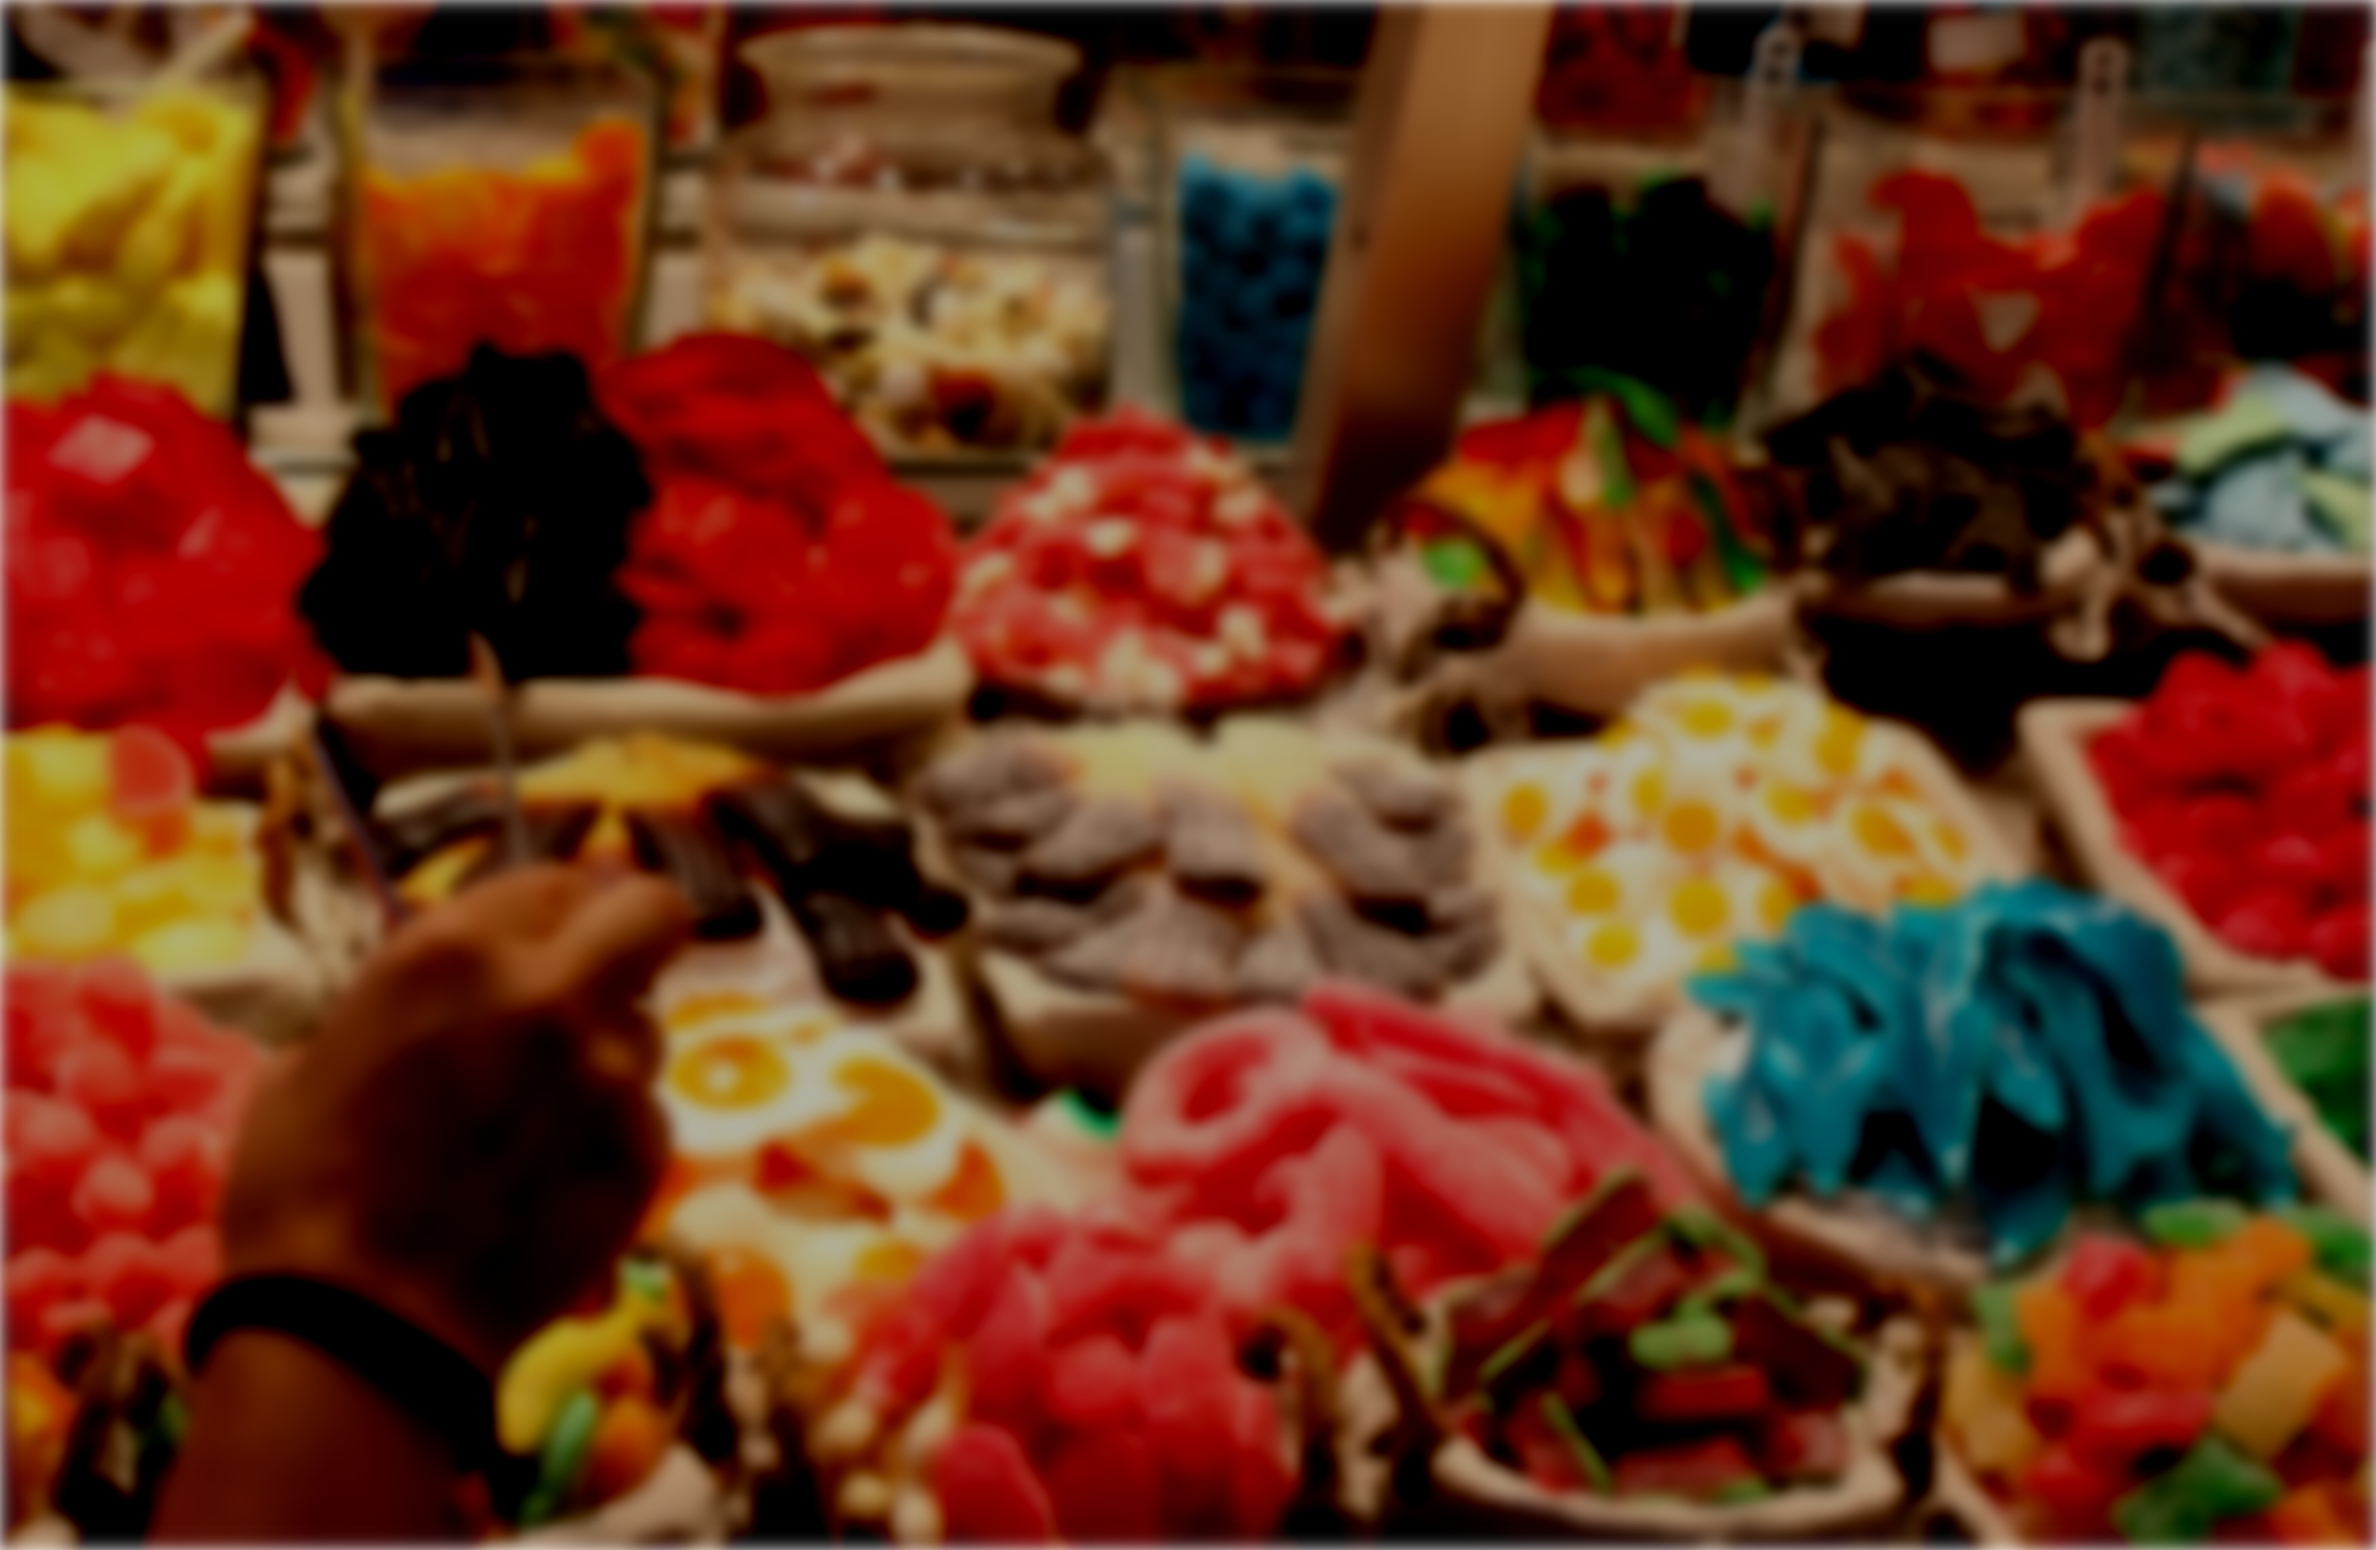
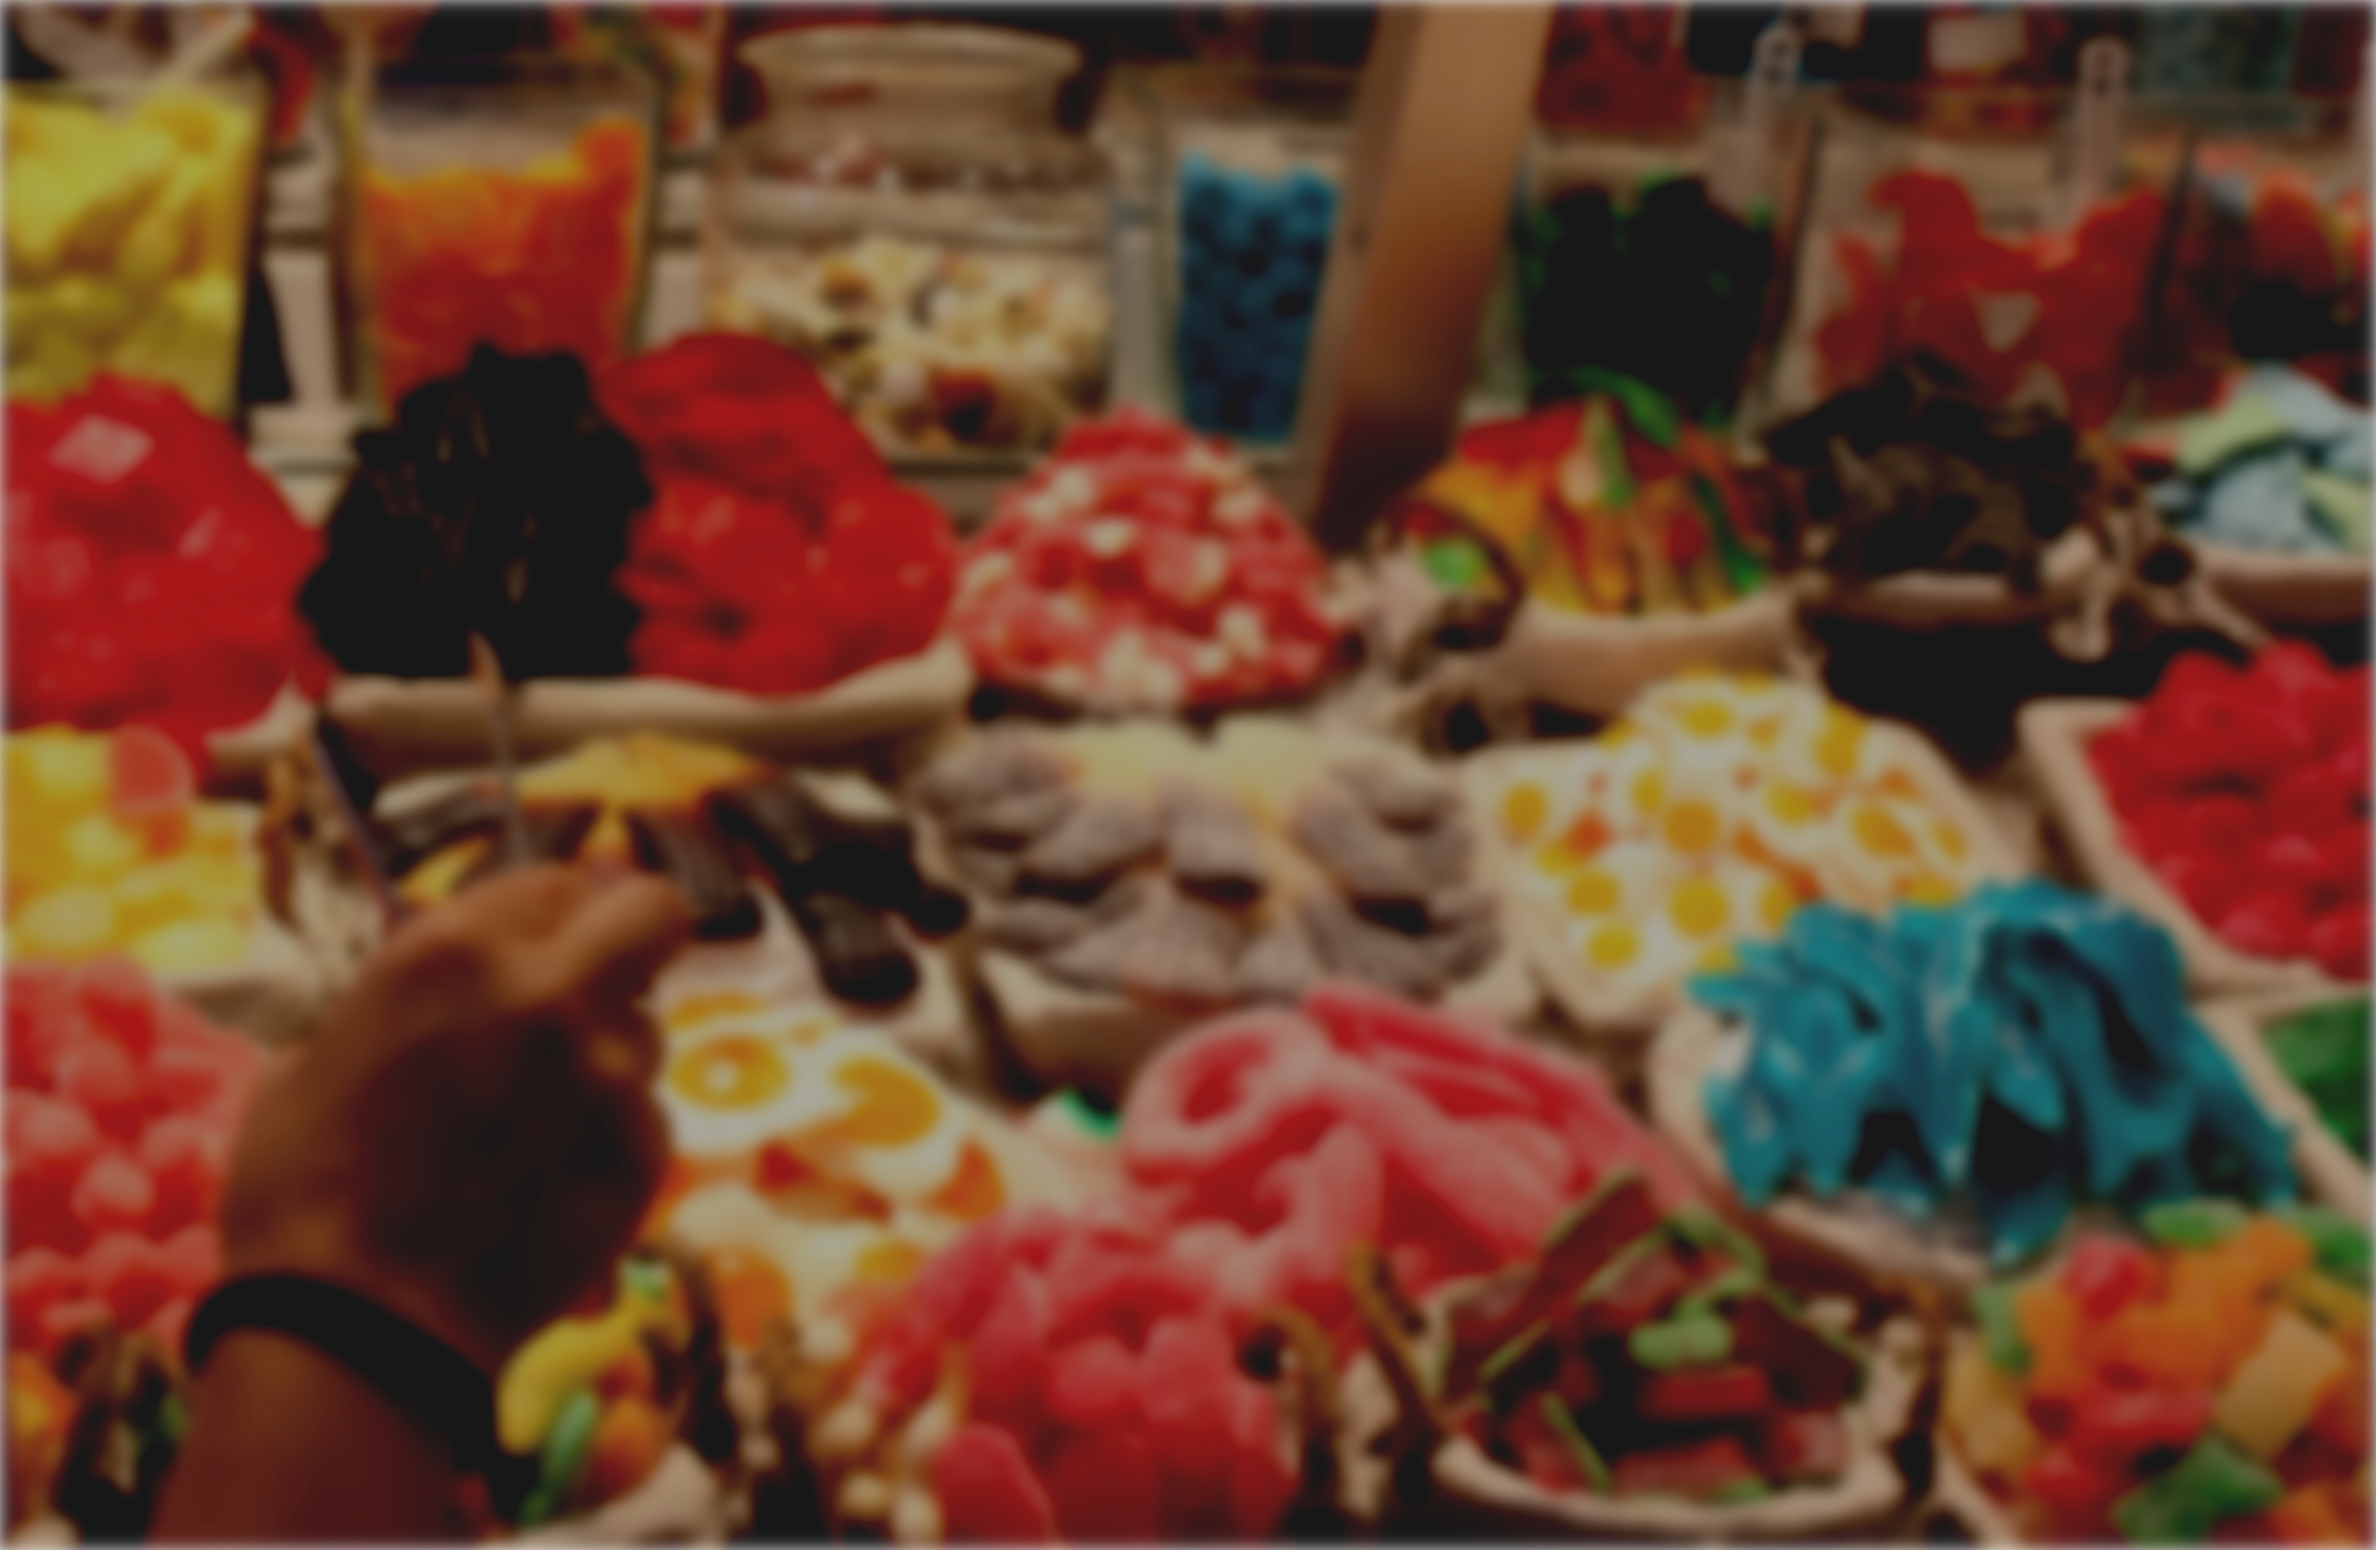
Image contrast reduced, css tweaks

diff --git a/src/immersive.less b/src/immersive.less
@@ -80,11 +80,11 @@ section#story2 {
   background-size: cover;
   .story {
     text-align: center;
-    max-width: 700px;
+    max-width: 800px;
     position: absolute;
     top: 20%;
     left: 50%;
-    margin-left: -350px;
+    margin-left: -400px;
     h2 { color: #eee; vertical-align: middle; }
     .caption { color: #eee; width: 100%; }
   }
@@ -98,11 +98,11 @@ section#story1 {
   background-size: cover;
   .story {
     text-align: center;
-    max-width: 700px;
+    max-width: 800px;
     position: absolute;
     top: 0%;
     left: 50%;
-    margin-left: -350px;
+    margin-left: -400px;
     h2 { color: #eee; vertical-align: middle; }
     .caption { color: #eee; width: 100%; }
   }
@@ -116,11 +116,11 @@ section#story3 {
   background-size: cover;
   .story {
     text-align: center;
-    max-width: 700px;
+    max-width: 800px;
     position: absolute;
     top: 20%;
     left: 50%;
-    margin-left: -350px;
+    margin-left: -400px;
     h2 { color: #eee; vertical-align: middle; }
     .caption { color: #eee; width: 100%; }
   }

diff --git a/immersive.css b/immersive.css
@@ -247,11 +247,11 @@ section#story2 {
 }
 section#story2 .story {
   text-align: center;
-  max-width: 700px;
+  max-width: 800px;
   position: absolute;
   top: 20%;
   left: 50%;
-  margin-left: -350px;
+  margin-left: -400px;
 }
 section#story2 .story h2 {
   color: #eee;
@@ -270,11 +270,11 @@ section#story1 {
 }
 section#story1 .story {
   text-align: center;
-  max-width: 700px;
+  max-width: 800px;
   position: absolute;
   top: 0%;
   left: 50%;
-  margin-left: -350px;
+  margin-left: -400px;
 }
 section#story1 .story h2 {
   color: #eee;
@@ -293,11 +293,11 @@ section#story3 {
 }
 section#story3 .story {
   text-align: center;
-  max-width: 700px;
+  max-width: 800px;
   position: absolute;
   top: 20%;
   left: 50%;
-  margin-left: -350px;
+  margin-left: -400px;
 }
 section#story3 .story h2 {
   color: #eee;
